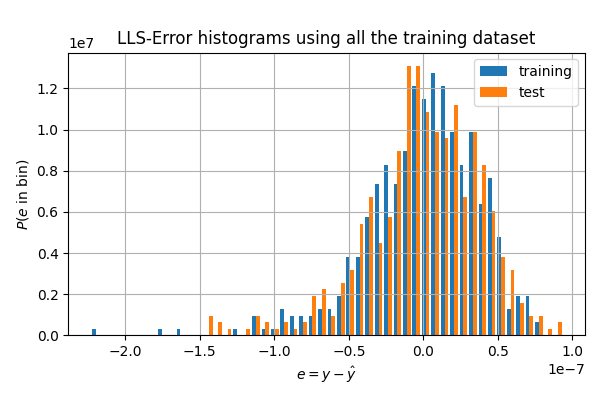
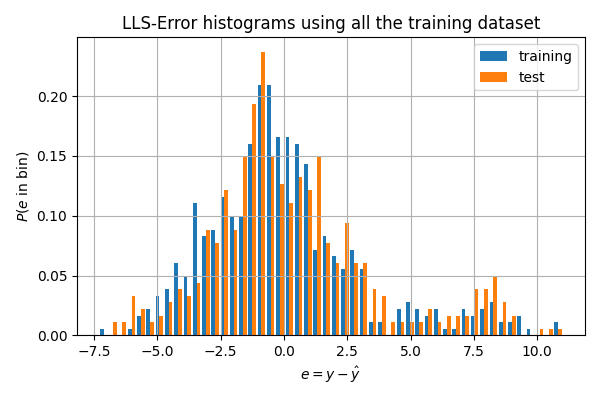
regression class working

diff --git a/LAB01/parkinson.py b/LAB01/parkinson.py
@@ -40,7 +40,7 @@ plt.yticks(np.arange(len(features)), features, rotation = 0)
 plt.colorbar()
 plt.title("Correlation coefficients of the features")
 plt.tight_layout()
-plt.savefig("./corr_coeff.png")
+plt.savefig("ICT_for_health\LAB01\charts\corr_coeff.png")
 plt.show()
 plt.figure()
 
@@ -67,41 +67,26 @@ sy = ss['total_UPDRS']  #st. dev. of total UPDRS
 Xsh_norm=(Xsh-mm)/ss# normalized data
 ysh_norm=Xsh_norm['total_UPDRS']# regressand only
 Xsh_norm=Xsh_norm.drop(['total_UPDRS','subject#'],axis=1)# regressors only
-#Xsh_norm=Xsh_norm.drop(['total_UPDRS','subject#', 'Jitter:DDP', 'Shimmer:DDA'],axis=1)
-X_tr_norm=Xsh_norm[0:Ntr]
-X_te_norm=Xsh_norm[Ntr:]
-y_tr_norm=ysh_norm[0:Ntr]
-y_te_norm=ysh_norm[Ntr:]
+
 #LLS regression
-#r = myreg(X_tr_norm, y_tr_norm)
-#re.LLS()
-w_hat=np.linalg.inv(X_tr_norm.T@X_tr_norm)@(X_tr_norm.T@y_tr_norm)
-regressors = list(X_tr_norm.columns)
-Nf = len(w_hat)
-nn = np.arange(Nf)
-plt.figure(figsize=(6,4))
-plt.plot(nn,w_hat,'-o')
-ticks=nn
-plt.xticks(ticks, regressors, rotation=90)
-plt.ylabel(r'$\^w(n)$')
-plt.title('LLS-Optimized weights')
-plt.grid()
-plt.tight_layout()
-plt.savefig('./myLLS-what.png')
-plt.show()
-#Evaluate y_hat for test and training set
-y_hat_te_norm = X_te_norm @ w_hat
-y_hat_tr_norm = X_tr_norm @ w_hat
+#All the features
+r1 = myreg.regression(Xsh_norm, ysh_norm, Ntr)
+r1.LLS("LLS-what-all.png")
+
+#Excluding Jitter:DDP and Shimmer:DDA
+Xsh_norm=Xsh_norm.drop(['Jitter:DDP', 'Shimmer:DDA'],axis=1)
+r2 = myreg.regression(Xsh_norm, ysh_norm, Ntr)
+r2.LLS("LLS-what.png")
 
 #De-normalize y_hat
-y_hat_tr=y_hat_tr_norm*sy+my
-y_tr=y_tr_norm*sy+my
-y_hat_te=y_hat_te_norm*sy+my
-y_te=y_te_norm*sy+my
+r1.y_hat_tr=r1.y_hat_tr*sy+my
+r1.y_tr=r1.y_tr*sy+my
+r1.y_hat_te=r1.y_hat_te*sy+my
+r1.y_te=r1.y_te*sy+my
 
 #Histogram of the error Y - Y_hat
-E_tr=(y_tr-y_hat_tr)# training
-E_te=(y_te-y_hat_te)# test
+E_tr=(r1.y_tr-r1.y_hat_tr)# training
+E_te=(r1.y_te-r1.y_hat_te)# test
 e=[E_tr,E_te]
 plt.figure(figsize=(6,4))
 plt.hist(e,bins=50,density=True, histtype='bar',label=['training','test'])
@@ -111,12 +96,12 @@ plt.legend()
 plt.grid()
 plt.title('LLS-Error histograms using all the training dataset')
 plt.tight_layout()
-plt.savefig('./LLS-hist.png')
+plt.savefig('ICT_for_health\LAB01\charts\LLS-hist.png')
 plt.show()
 
 #Plot regression line
 plt.figure(figsize=(6,4))
-plt.plot(y_te,y_hat_te,'.')
+plt.plot(r1.y_te,r1.y_hat_te,'.')
 plt.legend()
 v=plt.axis()
 plt.plot([v[0],v[1]],[v[0],v[1]],'r',linewidth=2)
@@ -126,9 +111,9 @@ plt.ylabel(r'$\^y$')
 plt.grid()
 plt.title('LLS-test')
 plt.tight_layout()
-plt.savefig('./LLS-yhat_vs_y.png')
+plt.savefig('ICT_for_health\LAB01\charts\LLS-yhat_vs_y.png')
 plt.show()
-
+""" 
 #Errors and coefficients
 E_tr_max=E_tr.max()
 E_tr_min=E_tr.min()
@@ -155,3 +140,4 @@ p=np.array([
 results=pd.DataFrame(p,columns=cols,index=rows)
 print(results)
 # %%
+ """

diff --git a/LAB01/sub/regression.py b/LAB01/sub/regression.py
@@ -1,30 +1,40 @@
 import numpy as np
 import matplotlib.pyplot as plt
 import pandas as pd
-#import sub.minimization as mymin
+import sub.minimization as mymin
 
 
 class regression:
-    def __init__(self, X, y ):
+    def __init__(self, X, y, Ntr):
+        self.Np = y.shape[0] 
+        self.Ntr = Ntr
+        self.Nte = self.Np - self.Ntr
+        self.Nf = X.shape[1]
         self.X = X
         self.y = y
+        self.X_tr=X[0:Ntr]
+        self.X_te=X[Ntr:]
+        self.y_tr=y[0:Ntr]
+        self.y_te=y[Ntr:]
+        self.w_hat = np.zeros((self.Nf, ), dtype=float)
         return
-""" 
-    def LLS(self):
-        m = mymin.SolveLLS(self.y, self.X)
+
+    def LLS(self, title = "LLS-what.png"):
+        m = mymin.SolveLLS(self.y_tr, self.X_tr)
         m.run()
-        w_hat = m.sol
-        regressors = list(self.X.columns)
-        Nf = len(w_hat)
-        nn = np.arange(Nf)
+        self.w_hat = m.sol
+        self.y_hat_te = self.X_te @ self.w_hat
+        self.y_hat_tr = self.X_tr @ self.w_hat
+        regressors = list(self.X_tr.columns)
+        nn = np.arange(self.Nf)
         plt.figure(figsize=(6,4))
-        plt.plot(nn,w_hat,'-o')
+        plt.plot(nn,self.w_hat,'-o')
         ticks=nn
         plt.xticks(ticks, regressors, rotation=90)
         plt.ylabel(r'$\^w(n)$')
         plt.title('LLS-Optimized weights')
         plt.grid()
         plt.tight_layout()
-        plt.savefig('C:\Coding\ICT_for_health\LAB01\charts\LLS-what.png')
+        plt.savefig(f'C:\Coding\ICT_for_health\LAB01\charts\{title}')
         plt.show()
- """
+        return
